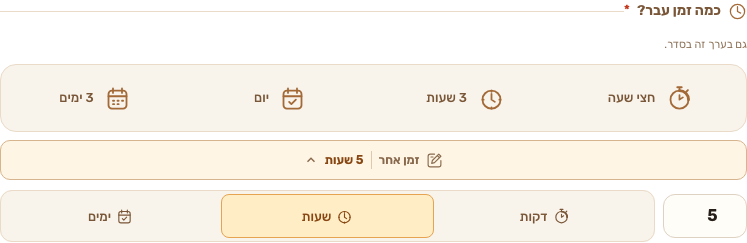
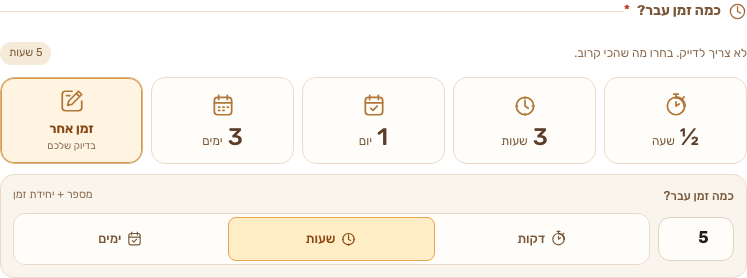
Rebuild elapsed-time picker around five clear illustrated choices

diff --git a/app/conversation-experience.css b/app/conversation-experience.css
@@ -244,44 +244,44 @@
 
 .sb-experience .sb-original-logo { width: 40px; height: 40px; flex-shrink: 0; }
 
-/* Compact elapsed-time choices in the follow-up composer. */
-.sb-experience .sb-duration { min-width: 0; margin: 0; padding: 12px 0 0; border: 0; border-top: 1px solid #eadbc9; background: transparent; color: #795637; }
-.sb-duration-heading { display: flex; align-items: center; gap: 7px; padding: 0; font-size: 14px; line-height: 22px; font-weight: 650; }
+/* A single duration picker: quick choices and a custom choice share one grid. */
+.sb-experience .sb-duration { min-width: 0; margin: 0; padding: 16px 0 0; border: 0; border-top: 1px solid #eadbc9; color: #795637; }
+.sb-duration-heading { display: flex; align-items: center; gap: 7px; font-size: 14px; line-height: 22px; font-weight: 650; }
 .sb-duration-heading > svg { width: 19px; height: 19px; color: #a36a38; }
-.sb-duration-help { margin: 2px 0 10px; font-size: 11px; line-height: 18px; color: #8c7157; }
-.sb-experience .sb-duration-presets {
-  display: grid;
-  grid-template-columns: repeat(2, minmax(0, 1fr));
-  gap: 8px;
-  margin-top: 0;
-}
-.sb-duration-option { position: relative; display: flex; align-items: center; justify-content: center; gap: 8px; min-width: 0; min-height: 56px; padding: 8px 14px; border: 1px solid #eadbc9; border-radius: 12px; background: #fffaf2; color: #795637; font-size: 13px; line-height: 20px; font-weight: 650; cursor: pointer; }
-.sb-duration-icon { display: inline-flex; align-items: center; justify-content: center; flex: 0 0 28px; height: 28px; border-radius: 9px; background: #f6eddf; color: #a36a38; }
-.sb-duration-icon > svg { width: 20px; height: 20px; }
-.sb-duration-option[aria-pressed="true"] { border-color: #e6a451; background: #ffedc5; color: #874611; box-shadow: inset 0 0 0 1px #e6a451; }
-.sb-duration-option[aria-pressed="true"] .sb-duration-icon { background: #ffe0a0; }
-.sb-duration-check { position: absolute; top: 5px; inset-inline-end: 5px; }
-.sb-duration-custom-trigger { display: flex; align-items: center; justify-content: center; gap: 7px; width: 100%; min-height: 40px; margin-top: 8px; padding: 6px 12px; border: 1px dashed #dfc9ad; border-radius: 10px; background: #fffdf8; color: #88694d; font-size: 12px; font-weight: 600; cursor: pointer; }
-.sb-duration-custom-trigger > svg:first-child { width: 17px; height: 17px; }
-.sb-duration-custom-trigger[aria-expanded="true"], .sb-duration-custom-trigger[data-selected] { border-style: solid; border-color: #e6a451; background: #fff0d4; }
-.sb-duration-custom-value { padding-inline-start: 7px; border-inline-start: 1px solid #dfc9ad; color: #874611; font-weight: 700; }
-.sb-duration-custom-trigger[aria-expanded="true"] .sb-duration-chevron { transform: rotate(180deg); }
-.sb-duration-custom-fields { display: grid; grid-template-columns: 84px minmax(0, 1fr); align-items: center; gap: 8px; margin-top: 10px; }
-.sb-duration-custom-fields > label { font-size: 11px; color: #88694d; }
-.sb-duration-custom-fields > input { background: #fffdf8; font-size: 16px; }
-.sb-duration-option:focus-visible, .sb-duration-custom-trigger:focus-visible { outline: 2px solid #c17c2c; outline-offset: 2px; }
-@media (hover: hover) {
-  .sb-duration-option:hover, .sb-duration-custom-trigger:hover { background: #fff5e4; border-color: #d6b58e; }
-  .sb-duration-option[aria-pressed="true"]:hover { background: #ffe7b3; }
-}
-@media (prefers-reduced-motion: no-preference) {
-  .sb-duration-option, .sb-duration-custom-trigger { transition: background-color 120ms ease, border-color 120ms ease; }
-}
-@media (min-width: 640px) {
-  .sb-experience .sb-duration-presets {
-    grid-template-columns: repeat(4, minmax(0, 1fr));
-  }
-}
+.sb-duration-intro { display: flex; align-items: center; justify-content: space-between; flex-wrap: wrap; gap: 6px 12px; margin: 4px 0 12px; }
+.sb-duration-help { color: #88694d; font-size: 12px; line-height: 1.7; }
+.sb-duration-selection { padding: 3px 9px; border-radius: 20px; background: #f6ead8; color: #795637; font-size: 11px; }
+.sb-experience .sb-duration-presets { display: grid; grid-template-columns: repeat(6,minmax(0,1fr)); gap: 8px; }
+.sb-duration-option, .sb-duration-custom-trigger { position: relative; display: flex; flex-direction: column; align-items: center; justify-content: center; gap: 7px; grid-column: span 2; min-width: 0; min-height: 84px; padding: 10px 6px; border: 1px solid #eadbc9; border-radius: 14px; background: #fffdfa; color: #795637; cursor: pointer; }
+.sb-duration-option:nth-child(4), .sb-duration-custom-trigger { grid-column: span 3; }
+.sb-duration-icon { display: flex; align-items: center; justify-content: center; height: 26px; color: #b07737; }
+.sb-duration-icon > svg { width: 26px; height: 26px; }
+.sb-duration-option-label { display: flex; align-items: baseline; gap: 5px; line-height: 1; }
+.sb-duration-option-label strong { color: #5b3d29; font-size: 24px; font-weight: 500; }
+.sb-duration-option-label > span { font-size: 12px; }
+.sb-duration-option[aria-pressed="true"], .sb-duration-custom-trigger[data-selected] { border-color: #dc9a43; background: #fff0d2; box-shadow: inset 0 0 0 1px #dc9a43; color: #874611; }
+.sb-duration-option[aria-pressed="true"] .sb-duration-icon { color: #a15a20; }
+.sb-duration-check { position: absolute; top: 7px; inset-inline-end: 7px; width: 12px; height: 12px; }
+.sb-duration-custom-trigger { border-style: dashed; background: #faf5ec; }
+.sb-duration-custom-trigger[data-selected] { border-style: solid; }
+.sb-duration-custom-label { font-size: 13px; line-height: 1.25; font-weight: 600; }
+.sb-duration-custom-label small { display: block; margin-top: 3px; font-size: 10px; font-weight: 400; color: #88694d; }
+.sb-duration-editor { margin-top: 10px; padding: 12px; border: 1px solid #eadbc9; border-radius: 14px; background: #faf5ec; }
+.sb-duration-editor-heading { display: flex; justify-content: space-between; gap: 8px; margin-bottom: 8px; font-size: 12px; font-weight: 500; }
+.sb-duration-editor-heading > span:last-child { color: #88694d; font-size: 11px; font-weight: 400; }
+.sb-duration-custom-fields { display: grid; grid-template-columns: 76px minmax(0,1fr); gap: 8px; align-items: center; }
+.sb-duration-custom-fields > input { text-align: center; padding-inline: 8px; background: #fffdfa; font-size: 16px; }
+.sb-duration-units { display: grid; grid-template-columns: repeat(3,minmax(0,1fr)); gap: 3px; min-width: 0; border: 1px solid #eadbc9; border-radius: 12px; padding: 3px; background: #fffdfa; }
+.sb-duration-units label { position: relative; min-width: 0; cursor: pointer; }
+.sb-duration-units input { position: absolute; inset: 0; z-index: 1; width: 100%; height: 100%; margin: 0; opacity: 0; cursor: pointer; }
+.sb-duration-units span { display: flex; justify-content: center; align-items: center; gap: 5px; min-height: 44px; padding: 4px; border: 1px solid transparent; border-radius: 8px; color: #795637; font-size: 13px; font-weight: 500; }
+.sb-duration-units span > svg { width: 17px; height: 17px; flex-shrink: 0; }
+.sb-duration-units input:checked + span { background: #ffedc5; border-color: #e6a451; color: #874611; }
+.sb-duration-units input:focus-visible + span, .sb-duration-option:focus-visible, .sb-duration-custom-trigger:focus-visible { outline: 2px solid #c17c2c; outline-offset: 2px; }
+@media (hover: hover) { .sb-duration-option:hover, .sb-duration-custom-trigger:hover { background: #fff4e1; border-color: #d6b58e; } .sb-duration-units label:hover span { background: #fff0d4; } }
+@media (prefers-reduced-motion: no-preference) { .sb-duration-option, .sb-duration-custom-trigger, .sb-duration-units span { transition: background-color 120ms ease, border-color 120ms ease; } }
+@media (min-width: 640px) { .sb-experience .sb-duration-presets { grid-template-columns: repeat(5,minmax(0,1fr)); } .sb-duration-option, .sb-duration-option:nth-child(4), .sb-duration-custom-trigger { grid-column: auto; } }
+@media (max-width: 359px) { .sb-duration-custom-fields { grid-template-columns: 58px minmax(0,1fr); gap: 6px; } .sb-duration-units span { flex-direction: column; gap: 2px; padding-inline: 2px; font-size: 12px; } .sb-duration-units span > svg { width: 15px; height: 15px; } .sb-duration-editor { padding: 9px; } }
 
 /* Keep the incoming composer and its action within a small phone viewport. */
 @media (max-width: 639px) {
@@ -485,28 +485,3 @@
   outline-offset: 2px;
   box-shadow: none;
 }
-
-.sb-duration-custom-fields > input { text-align: center; padding-inline: 8px; }
-.sb-duration-units { display: grid; grid-template-columns: repeat(3, minmax(0, 1fr)); gap: 4px; min-width: 0; border: 1px solid #eadbc9; border-radius: 12px; padding: 3px; background: #f8f3eb; }
-.sb-duration-units label { position: relative; min-width: 0; cursor: pointer; }
-.sb-duration-units input { position: absolute; inset: 0; z-index: 1; width: 100%; height: 100%; margin: 0; opacity: 0; cursor: pointer; }
-.sb-duration-units span { display: grid; place-items: center; min-height: 44px; padding: 4px; border: 1px solid transparent; border-radius: 8px; color: #795637; font-size: 13px; font-weight: 500; }
-.sb-duration-units input:checked + span { background: #ffedc5; border-color: #e6a451; color: #874611; }
-.sb-duration-units input:focus-visible + span { outline: 2px solid #c17c2c; outline-offset: 1px; }
-@media (hover: hover) { .sb-duration-units label:hover span { background: #fff0d4; } }
-@media (prefers-reduced-motion: no-preference) { .sb-duration-units span { transition: background-color 120ms ease, border-color 120ms ease; } }
-@media (max-width: 359px) { .sb-duration-custom-fields { grid-template-columns: 64px minmax(0, 1fr); gap: 6px; } }
-
-/* One warm selection rail ties the quick times to the compact custom units. */
-.sb-experience .sb-duration-presets { padding: 5px; gap: 5px; border: 1px solid #eadbc9; border-radius: 16px; background: #f8f3eb; }
-.sb-duration-option { min-height: 56px; padding: 8px 10px; gap: 9px; background: transparent; border-color: transparent; border-radius: 11px; }
-.sb-duration-icon { flex-basis: 30px; height: 30px; background: transparent; color: #a36a38; }
-.sb-duration-icon > svg { width: 27px; height: 27px; }
-.sb-duration-option-label { font-weight: 500; }
-.sb-duration-option[aria-pressed="true"] { border-color: #e6b36b; background: #fff2d6; box-shadow: 0 2px 5px #79563712; }
-.sb-duration-option[aria-pressed="true"] .sb-duration-icon { background: transparent; color: #a15a20; }
-.sb-duration-check { top: 4px; inset-inline-end: 4px; width: 12px; height: 12px; }
-.sb-duration-units span { display: flex; justify-content: center; align-items: center; gap: 5px; }
-.sb-duration-units span > svg { width: 17px; height: 17px; flex-shrink: 0; }
-@media (hover: hover) { .sb-duration-option:hover { background: #fffdfa; border-color: #eadbc9; } }
-@media (max-width: 359px) { .sb-duration-units span { gap: 3px; padding-inline: 2px; font-size: 12px; } .sb-duration-units span > svg { width: 15px; height: 15px; } }

diff --git a/app/home-page-client.tsx b/app/home-page-client.tsx
@@ -2077,6 +2077,12 @@ export default function Home({
   const hasNoReplyDurationUnit = noReplyDurationUnit !== '';
   const hasCustomNoReplyDuration = hasValidNoReplyDuration && hasNoReplyDurationUnit &&
     !noReplyDurationPresets.some((preset) => preset.value === noReplyDurationValue && preset.unit === noReplyDurationUnit);
+  const selectedDurationUnitLabel = noReplyDurationValue === '1'
+    ? ({ minutes: 'דקה', hours: 'שעה', days: 'יום' } as const)[noReplyDurationUnit || 'minutes']
+    : noReplyDurationUnitOptions.find((option) => option.value === noReplyDurationUnit)?.label ?? '';
+  const selectedDurationLabel = noReplyDurationPresets.find(
+    (preset) => preset.value === noReplyDurationValue && preset.unit === noReplyDurationUnit,
+  )?.label ?? `${noReplyDurationValue} ${selectedDurationUnitLabel}`;
   const isNoReplyReady =
     Boolean(trimmedLastOutgoingMessage) && hasValidNoReplyDuration && hasNoReplyDurationUnit;
   const generateButtonLabel = isLoading
@@ -4788,15 +4794,20 @@ export default function Home({
                     <legend className="sb-duration-heading">
                       <DirectionIcon name="clock" />כמה זמן עבר? <span aria-hidden="true" className="text-[#c23318]">*</span>
                     </legend>
-                    <p className="sb-duration-help">גם בערך זה בסדר.</p>
+                    <div className="sb-duration-intro">
+                      <p className="sb-duration-help">לא צריך לדייק. בחרו מה שהכי קרוב.</p>
+                      <span className="sb-duration-selection" hidden={!hasValidNoReplyDuration || !hasNoReplyDurationUnit} aria-live="polite">{selectedDurationLabel}</span>
+                    </div>
                     <div className="sb-duration-presets">
                       {noReplyDurationPresets.map((preset, index) => {
                         const selected = !showCustomNoReplyDuration && noReplyDurationValue === preset.value && noReplyDurationUnit === preset.unit;
+                        const [amount, unitLabel] = preset.label === 'חצי שעה' ? ['½', 'שעה'] : preset.label === 'יום' ? ['1', 'יום'] : preset.label.split(' ');
                         return (
                           <button
                             key={preset.label}
                             type="button"
                             aria-pressed={selected}
+                            aria-label={preset.label}
                             onClick={() => {
                               setNoReplyDurationValue(preset.value);
                               setNoReplyDurationUnit(preset.unit);
@@ -4808,29 +4819,30 @@ export default function Home({
                             className="sb-duration-option"
                           >
                             <span className="sb-duration-icon"><DurationIcon unit={preset.unit} multiple={preset.unit === 'days' && preset.value !== '1'} /></span>
-                            <span className="sb-duration-option-label">{preset.label}</span>
+                            <span className="sb-duration-option-label"><strong>{amount}</strong><span>{unitLabel}</span></span>
                             {selected ? <svg className="sb-duration-check" width="13" height="13" viewBox="0 0 16 16" fill="none" stroke="currentColor" strokeWidth="2" aria-hidden="true"><path d="m3 8 3 3 7-7" /></svg> : null}
                           </button>
                         );
                       })}
-                    </div>
                     <button
                       type="button"
+                      aria-label="זמן אחר"
                       aria-expanded={showCustomNoReplyDuration}
                       aria-controls="no-reply-custom-duration"
-                      data-selected={hasCustomNoReplyDuration || undefined}
+                      data-selected={showCustomNoReplyDuration || hasCustomNoReplyDuration || undefined}
                       onClick={() => {
                         setShowCustomNoReplyDuration((visible) => !visible);
                         setHasTriedNoReplyContinue(false);
                       }}
                       className="sb-duration-custom-trigger"
                     >
-                      <DirectionIcon name="note" />
-                      זמן אחר
-                      {hasCustomNoReplyDuration ? <span className="sb-duration-custom-value">{noReplyDurationValue} {noReplyDurationUnitOptions.find((option) => option.value === noReplyDurationUnit)?.label}</span> : null}
-                      <svg className="sb-duration-chevron" width="14" height="14" viewBox="0 0 16 16" fill="none" stroke="currentColor" strokeWidth="1.6" aria-hidden="true"><path d="m4 6 4 4 4-4" /></svg>
+                      <span className="sb-duration-icon"><DirectionIcon name="note" /></span>
+                      <span className="sb-duration-custom-label">זמן אחר<small>בדיוק שלכם</small></span>
                     </button>
+                    </div>
                     {showCustomNoReplyDuration ? (
+                    <div className="sb-duration-editor">
+                    <div className="sb-duration-editor-heading"><span>כמה זמן עבר?</span><span>מספר + יחידת זמן</span></div>
                     <div id="no-reply-custom-duration" className="sb-duration-custom-fields">
                       <label className="sr-only" htmlFor="no-reply-duration-value">כמה?</label>
                       <input
@@ -4875,6 +4887,7 @@ export default function Home({
                           </label>
                         ))}
                       </fieldset>
+                    </div>
                     </div>
                     ) : null}
                     {((hasTriedNoReplyContinue && Boolean(trimmedLastOutgoingMessage)) || noReplyDurationValue.length > 0) && !hasValidNoReplyDuration ? (

diff --git a/README.md b/README.md
@@ -39,27 +39,17 @@ Checked in Chromium at 320, 360, 390, 768, 1024 and 1440px: RTL, document overfl
 
 ## Send a follow-up
 
-**לשלוח הודעת המשך** opens the follow-up composer. Paste the last outgoing message
-and choose the elapsed time in one tap: half an hour, 3 hours, a day, or 3 days.
-**זמן אחר** opens one compact row: a number and direct minutes/hours/days radio choices, each with a matching time icon. It can be collapsed without losing the selected duration, which stays visible in the trigger. Time presets share one cream selection rail with original stopwatch, clock and calendar SVG icons and a warm gold selection treatment; they fill two phone columns or one desktop row.
-No time is selected by default.
+**לשלוח הודעת המשך** opens the follow-up composer. Paste the last outgoing message and choose how long it has been. One picker offers five equal choices: half an hour, 3 hours, a day, 3 days, or **זמן אחר**. Large numbers, original time illustrations and warm gold selection make the choice easy to scan. The five cards use one desktop row and a balanced 3+2 phone layout.
 
-If a required detail is missing, the generation button remains clickable: it gently scrolls to and focuses the first missing field, with one short inline hint. Missing elapsed time points to the preset choices; custom fields open only when requested. Hints clear when corrected, reduced-motion preferences are respected, and generation remains disabled while a request is running. Verified in Chromium at 390px and 849px using synthetic generation.
+**זמן אחר** reveals a small labelled editor with a number and direct minutes/hours/days choices. The selected duration stays visible above the cards, including after the editor is closed. No time is selected by default. Exact values and existing generation payloads are preserved.
 
-<img src="docs/screenshots/followup-missing-field-mobile.png" alt="Follow-up composer focusing the missing outgoing message with a single inline hint" width="360">
+If a required detail is missing, clicking the generation action gently scrolls to and focuses the first missing field, with one short inline hint. Correcting the field clears the hint. Reduced-motion preferences are respected, and the action is disabled during generation.
 
-<img src="docs/screenshots/followup-toolbar-mobile.jpg" alt="Hebrew follow-up composer with one-tap elapsed-time choices" width="360" />
+<img src="docs/screenshots/duration-picker-mobile.png" alt="Rebuilt duration picker with five illustrated choices and a compact custom-time editor" width="390">
 
-*Local browser capture updated November 14, 2026. Follow-up toolbar verified in the actual app at 320×568, 378×902 and 849×902: it fills the composer width (270px, 328px and 751px respectively), with four equal-height tiles in a 2×2 phone grid or one desktop row. At 378×400 while editing, the compact strip and generation action share the same 23px side insets. These are emulated viewport checks, not a physical-device keyboard test.*
+![Rebuilt duration picker on desktop](docs/screenshots/duration-picker-desktop.png)
 
-![Full-width follow-up toolbar on desktop](docs/screenshots/followup-toolbar-desktop.jpg)
-
-<img src="docs/screenshots/duration-picker-mobile.png" alt="Custom elapsed time with labelled number and unit fields and the selected duration in its trigger" width="360">
-
-*Updated November 15: custom units and presets checked at 320px, 390px and 849px. All unit targets are at least 44px, selection survives collapsing and reopening, missing-unit guidance focuses the first choice, and a synthetic five-hour request retains its value and unit. No live AI or payment was submitted.*
-
-![Illustrated duration choices on desktop](docs/screenshots/duration-picker-desktop.png)
-
+*Updated November 15, 2026. Chromium checks at 320, 390 and 849px verified no horizontal overflow, 44px minimum unit targets, selection, missing-unit focus, collapse/reopen retention and a synthetic five-hour generation payload. No physical-device keyboard, live AI or payment verification is included.*
 
 ## What it does
 

diff --git a/docs/design-verification.md b/docs/design-verification.md
@@ -34,8 +34,11 @@ No physical-device keyboard test, live Firebase authentication, live AI output-q
 
 Verified after the follow-up validation update at 390×900 and 849×900, with reduced motion on the phone and smooth scrolling at 849px. Clicking the muted generation action focuses and reveals the first missing detail: outgoing message, a duration preset, or the custom time unit. Only the relevant inline hint appears; typing clears it. Incomplete submissions make no generation request, a valid submission makes one, and the action is disabled while generation is pending. The custom duration editor does not open automatically. Full regression suite: 175 tests passed.
 
-## Compact illustrated duration picker
+## Rebuilt duration picker
 
-The custom time unit dropdown is replaced by native radio choices for minutes, hours and days beside the number input. Stopwatch, clock and calendar SVGs distinguish the units; the quick presets share the same illustrations inside a single cream selection rail. Selected choices retain the warm gold treatment. Chromium checks at 320, 390 and 849px verified no document overflow, 44px minimum unit targets, all three selections, missing-unit focus, collapse/reopen retention and a synthetic five-hour generation payload. Lint, TypeScript, generator-flow tests and production build passed.
+The elapsed-time section is rebuilt as one five-choice picker: four illustrated presets and a custom-time card. Preset amounts are prominent, the custom option shares the grid, and a selected-duration badge remains visible above it. The custom card opens a contained, labelled number-and-unit editor. Mobile uses a balanced 3+2 grid; desktop uses five columns. The cream, orange, warm ink and gold palette is preserved.
 
-![Compact duration picker](screenshots/duration-picker-mobile.png)
+Chromium checks at 320, 390 and 849px verified no document overflow, 44px minimum unit targets, all unit selections, missing-unit focus, collapse/reopen retention and a synthetic five-hour generation payload. Lint, TypeScript, generator-flow tests and production build passed. Screenshots use synthetic identity and generation; live AI and payments are not verified.
+
+![Rebuilt mobile duration picker](screenshots/duration-picker-mobile.png)
+![Rebuilt desktop duration picker](screenshots/duration-picker-desktop.png)
